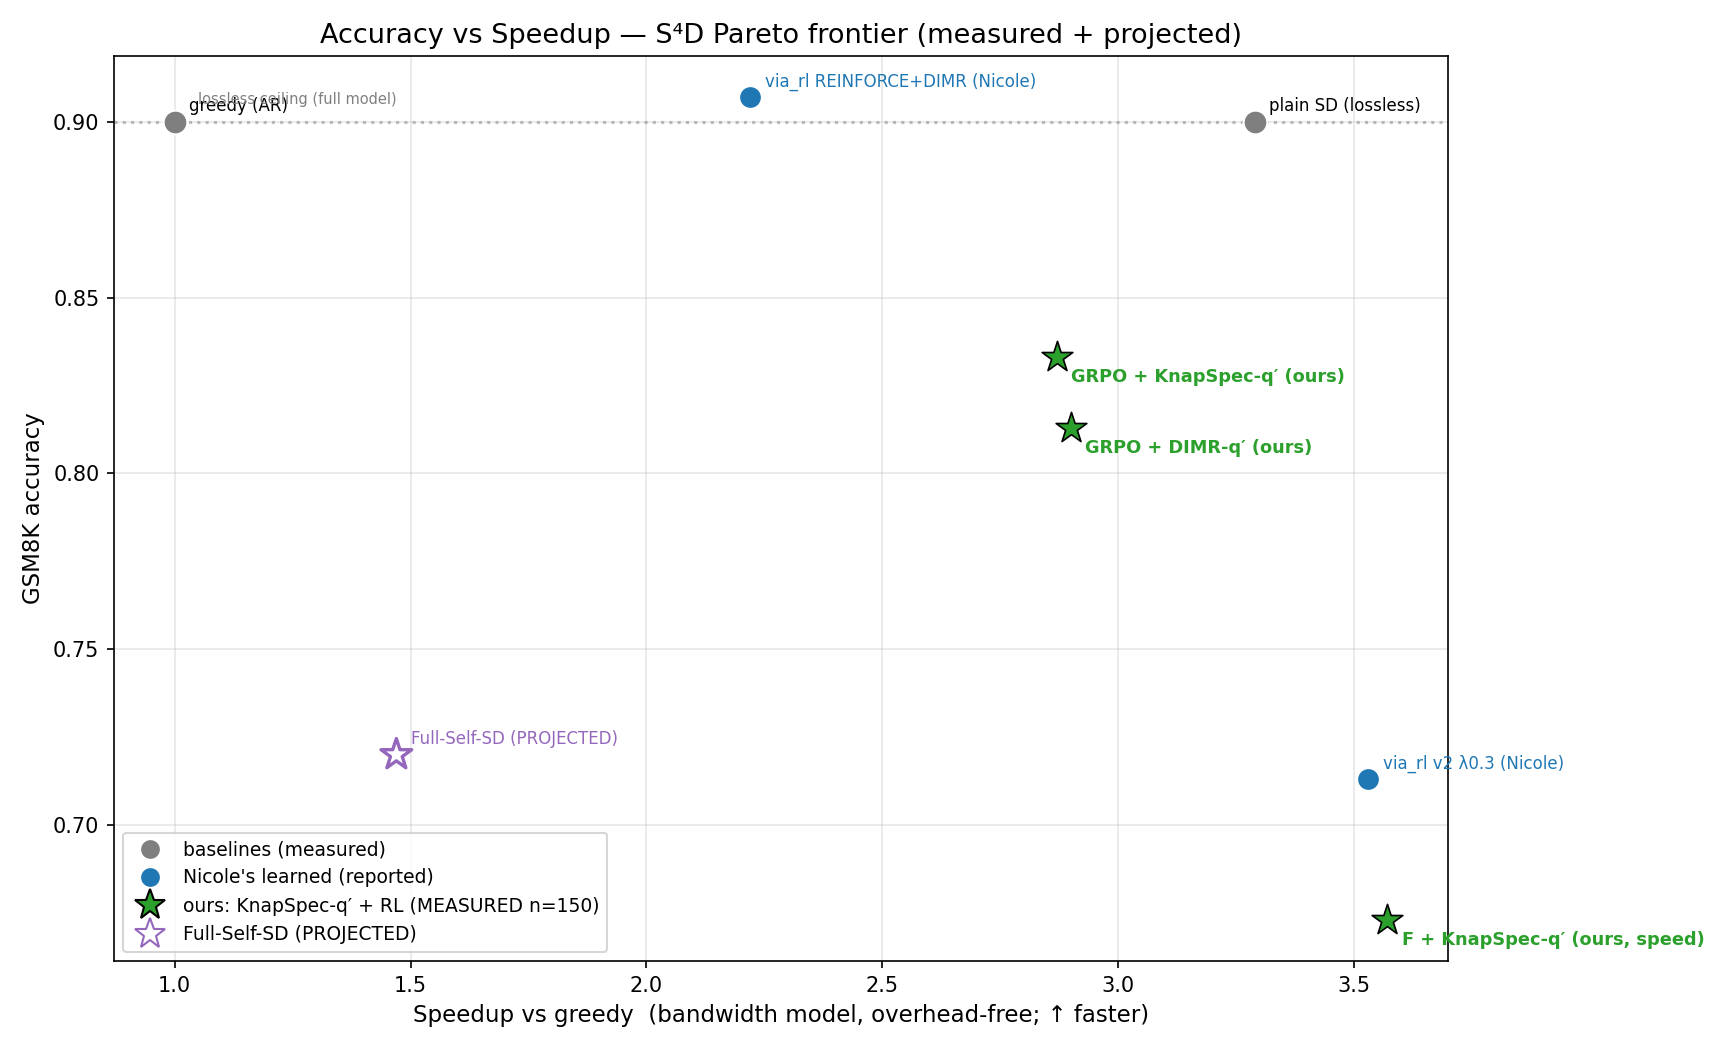
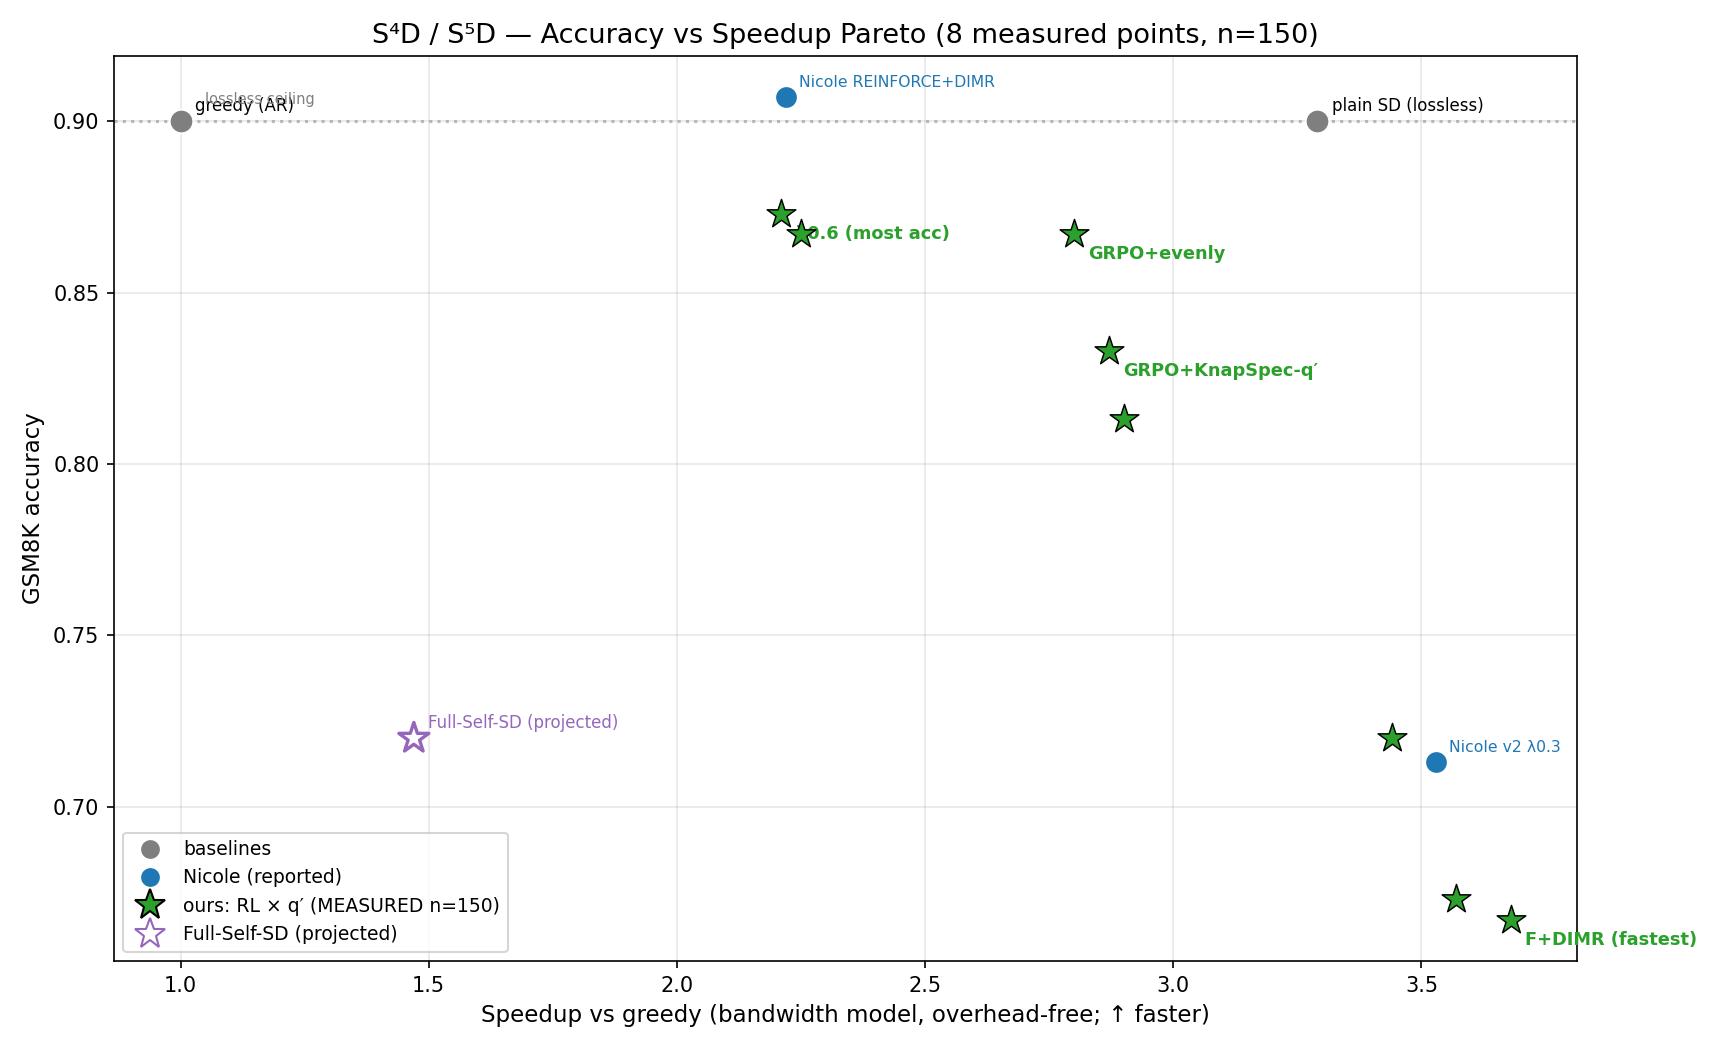
final: complete n=150 measured Pareto (8 cells), refreshed handoff doc + figure, gitignore

diff --git a/chain/SELF_SELF_SD.md b/chain/SELF_SELF_SD.md
@@ -106,12 +106,27 @@ at Nicole's settings (n=150/max320) is the source of truth — see "In progress"
 - `chain/ckpts/jl_*.jsonl` — our real RL convergence curves (for re-plotting).
 - `chain/RESULTS.md` — the full measured ablation + honest verdicts (q'-selection, latency sweep, etc.).
 
-## In progress (next session: pull updated numbers)
-- **Real re-bench at Nicole's settings (n=150, max_new=320)** running on f1 — cells `r_F_dimr`, `r_F_ksm26`,
-  `r_G_dimr`, … These give the **real accuracy** (the n=30 ones were truncation/noise-deflated to ~0.47;
-  expect ~0.71). Pull `~/bench_logs/r_*.log` from the box and parse the `via_rl` rows.
-- To get a **real Full-Self accuracy point**, re-bench the saved self-spec policies (`chain/ckpts/ps_*.pt`)
-  with `VIASD_DRAFT_MASK=knapspec_keep{8,20}.json` at n=150/max320.
+## Measured results at Nicole's settings (n=150, max_new=320) — **[MEASURED]**, DONE
+The 0.5B-draft (Semi-Self) re-bench completed for all 8 cells (full data in `chain/eval_data.md`,
+plotted in `chain/pareto_s5d.png`). These confirm the n=30 numbers were truncation/noise-deflated:
+
+| cell (policy × q′) | GSM8K acc | spd_bw | note |
+|---|---|---|---|
+| λ0.6 + DIMR | **0.873** | 2.21× | most accurate |
+| λ0.3 + DIMR | 0.867 | 2.25× | |
+| GRPO + evenly | 0.867 | 2.80× | |
+| **GRPO + KnapSpec-q′** | **0.833** | 2.87× | KnapSpec ≈ DIMR (our Leg-3) |
+| GRPO + DIMR | 0.813 | 2.90× | |
+| F + evenly (= Nicole v2 repro) | 0.720 | 3.44× | reproduces her 0.713 ✓ |
+| F + KnapSpec-q′ | 0.673 | 3.57× | |
+| **F + DIMR** | 0.667 | **3.68×** | fastest measured point |
+
+Baselines (n=150): greedy/AR 0.90 @ 1.0× · plain SD (lossless) 0.90 @ 3.29×.
+
+**Still projected (not measured): the Full-Self (self-spec draft) point** — its policies trained
+(`chain/ckpts/ps_*.pt`, match→0.95) but weren't re-benched at n=150. To get a real point: re-bench
+those with `VIASD_DRAFT_MASK=knapspec_keep{8,20}.json` at n=150/max320 (needs a fresh GPU box;
+ours were terminated).
 
 ## Reproduce
 All code + masks + policies are in `chain/` (see `chain/RESUME.md`). Key pieces:

diff --git a/chain/eval_data.md b/chain/eval_data.md
@@ -2,9 +2,14 @@
 
 | cell | n | acc | q/tok | spd_bw | spd_cor | plain_sd acc | plain_sd spd_bw |
 |---|---|---|---|---|---|---|---|
+| r_F_dimr | 150 | 0.667 | 0.092 | 3.68x | 3.74x | 0.9 | 3.29 |
+| r_F_even | 150 | 0.720 | 0.108 | 3.44x | 1.28x | 0.9 | 3.29 |
 | r_F_ksm26 | 150 | 0.673 | 0.099 | 3.57x | 2.22x | 0.9 | 3.29 |
 | r_G_dimr | 150 | 0.813 | 0.150 | 2.90x | 1.83x | 0.9 | 3.29 |
+| r_G_even | 150 | 0.867 | 0.164 | 2.80x | 1.61x | 0.9 | 3.29 |
 | r_G_ksm26 | 150 | 0.833 | 0.155 | 2.87x | 1.78x | 0.9 | 3.29 |
+| r_l3_dimr | 150 | 0.867 | 0.247 | 2.25x | 1.30x | 0.9 | 3.29 |
+| r_l6_dimr | 150 | 0.873 | 0.255 | 2.21x | 1.78x | 0.9 | 3.29 |
 | dimr_grpo | 30 | 0.633 | 0.149 | 2.90x | 1.77x | 0.8 | 3.31 |
 | dimr_lam03 | 30 | 0.700 | 0.240 | 2.28x | 1.28x | 0.8 | 3.31 |
 | dimr_lam06 | 30 | 0.700 | 0.253 | 2.21x | 1.69x | 0.8 | 3.31 |